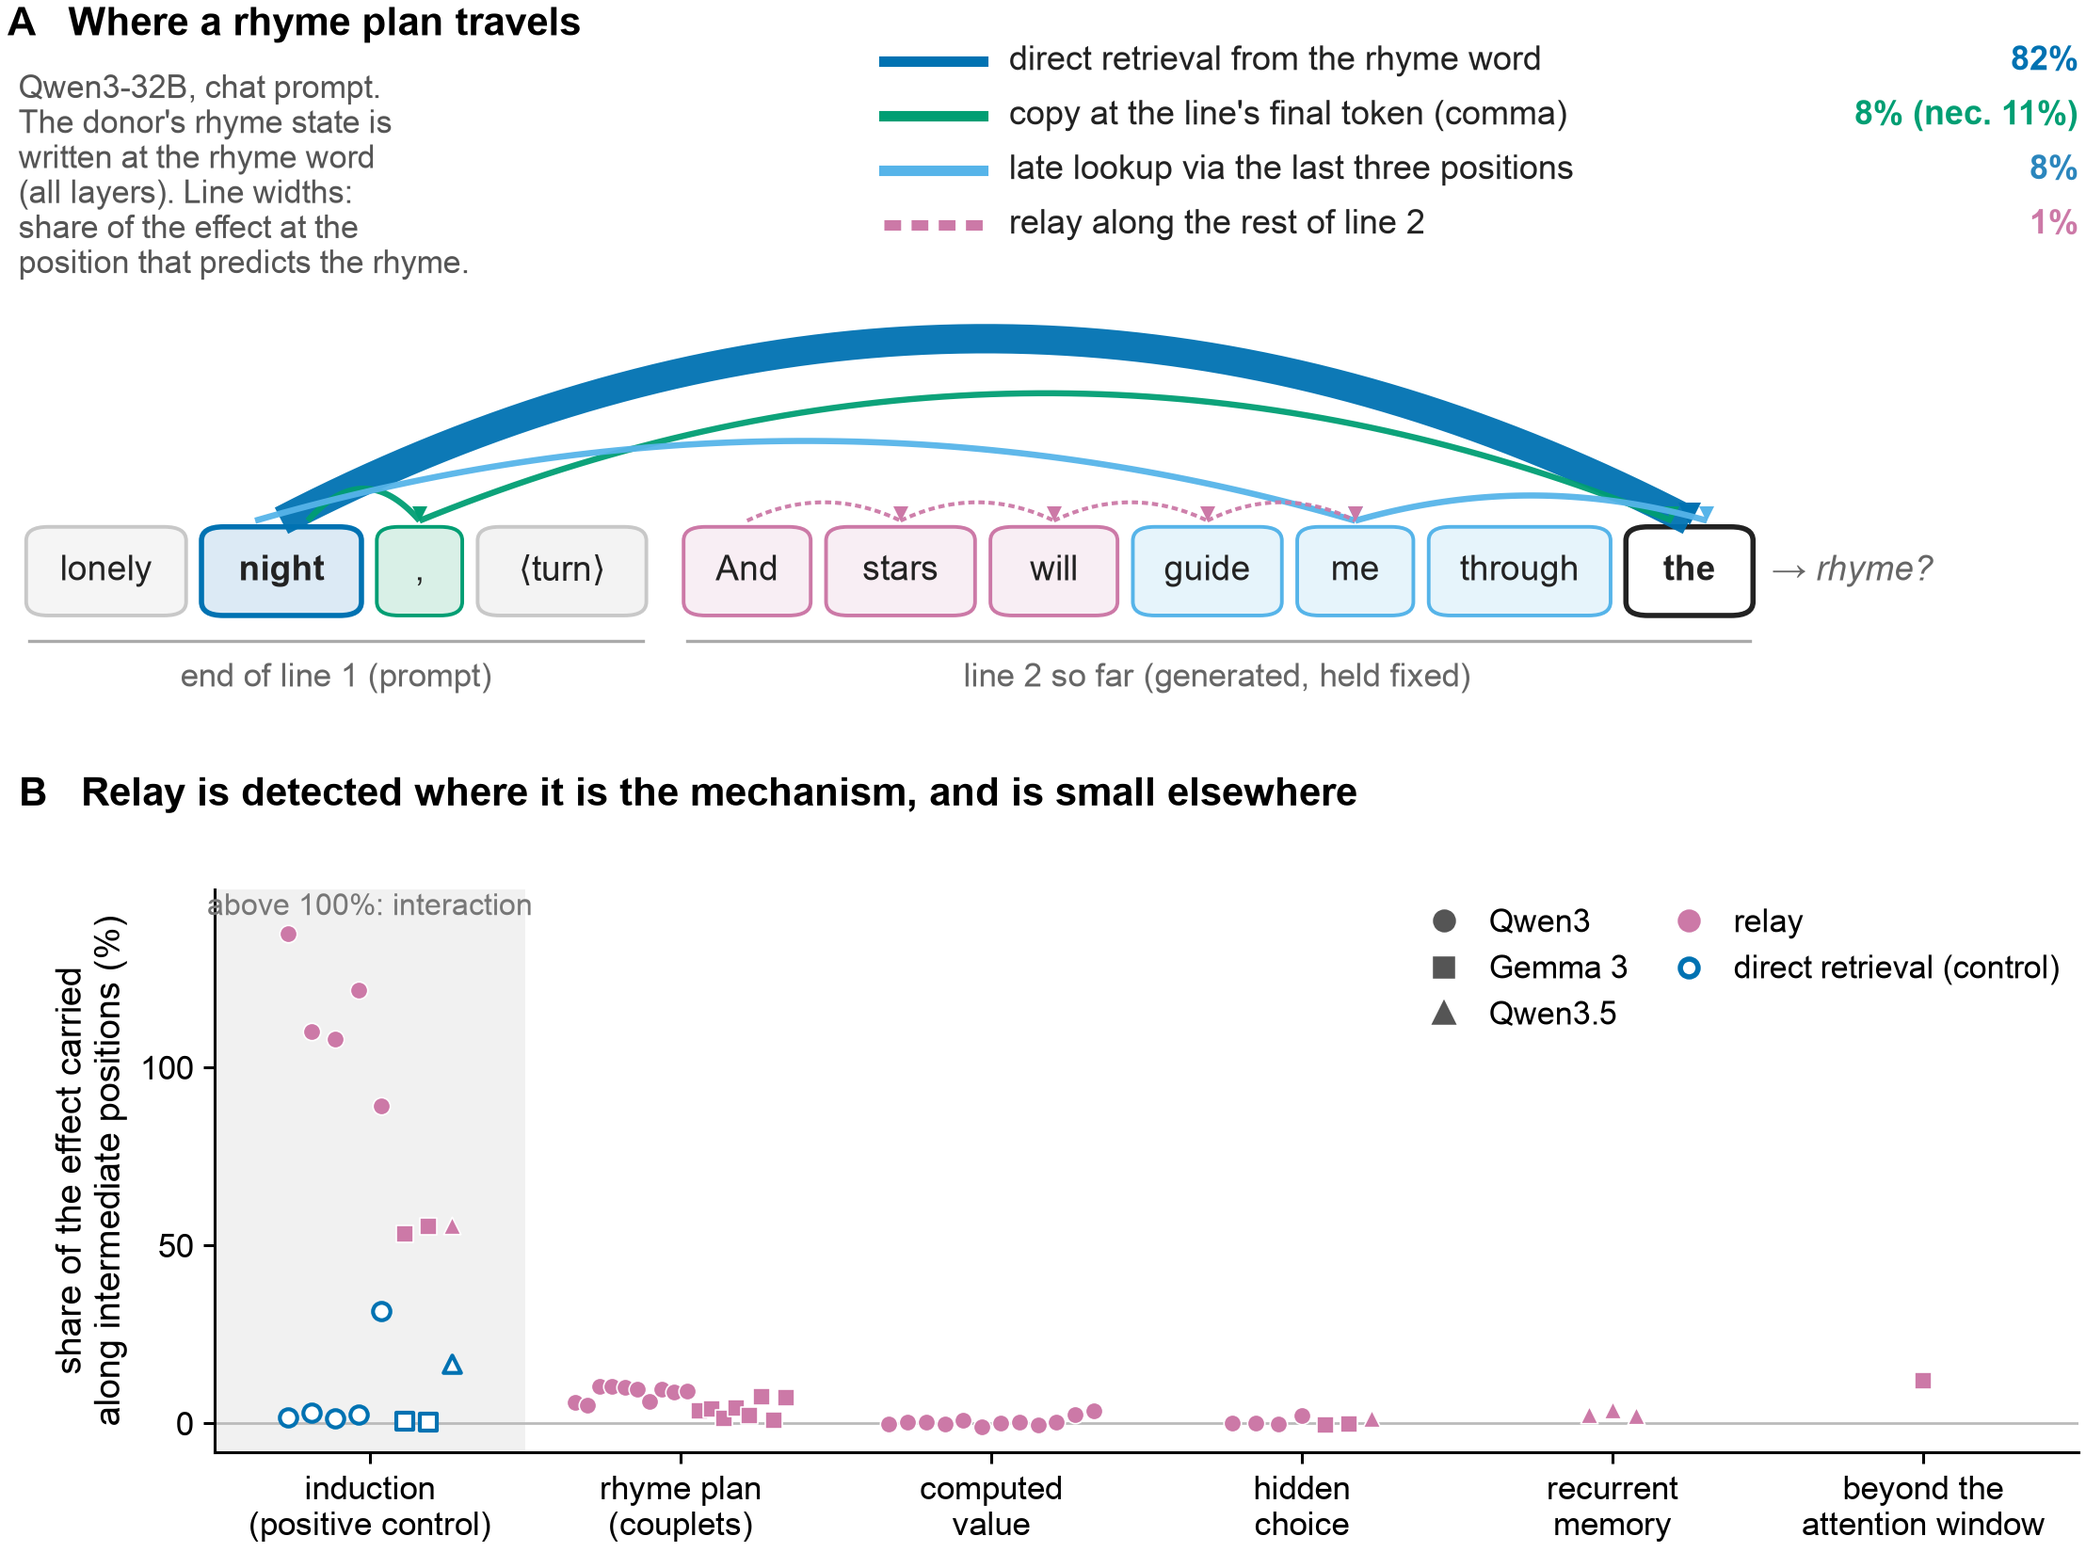
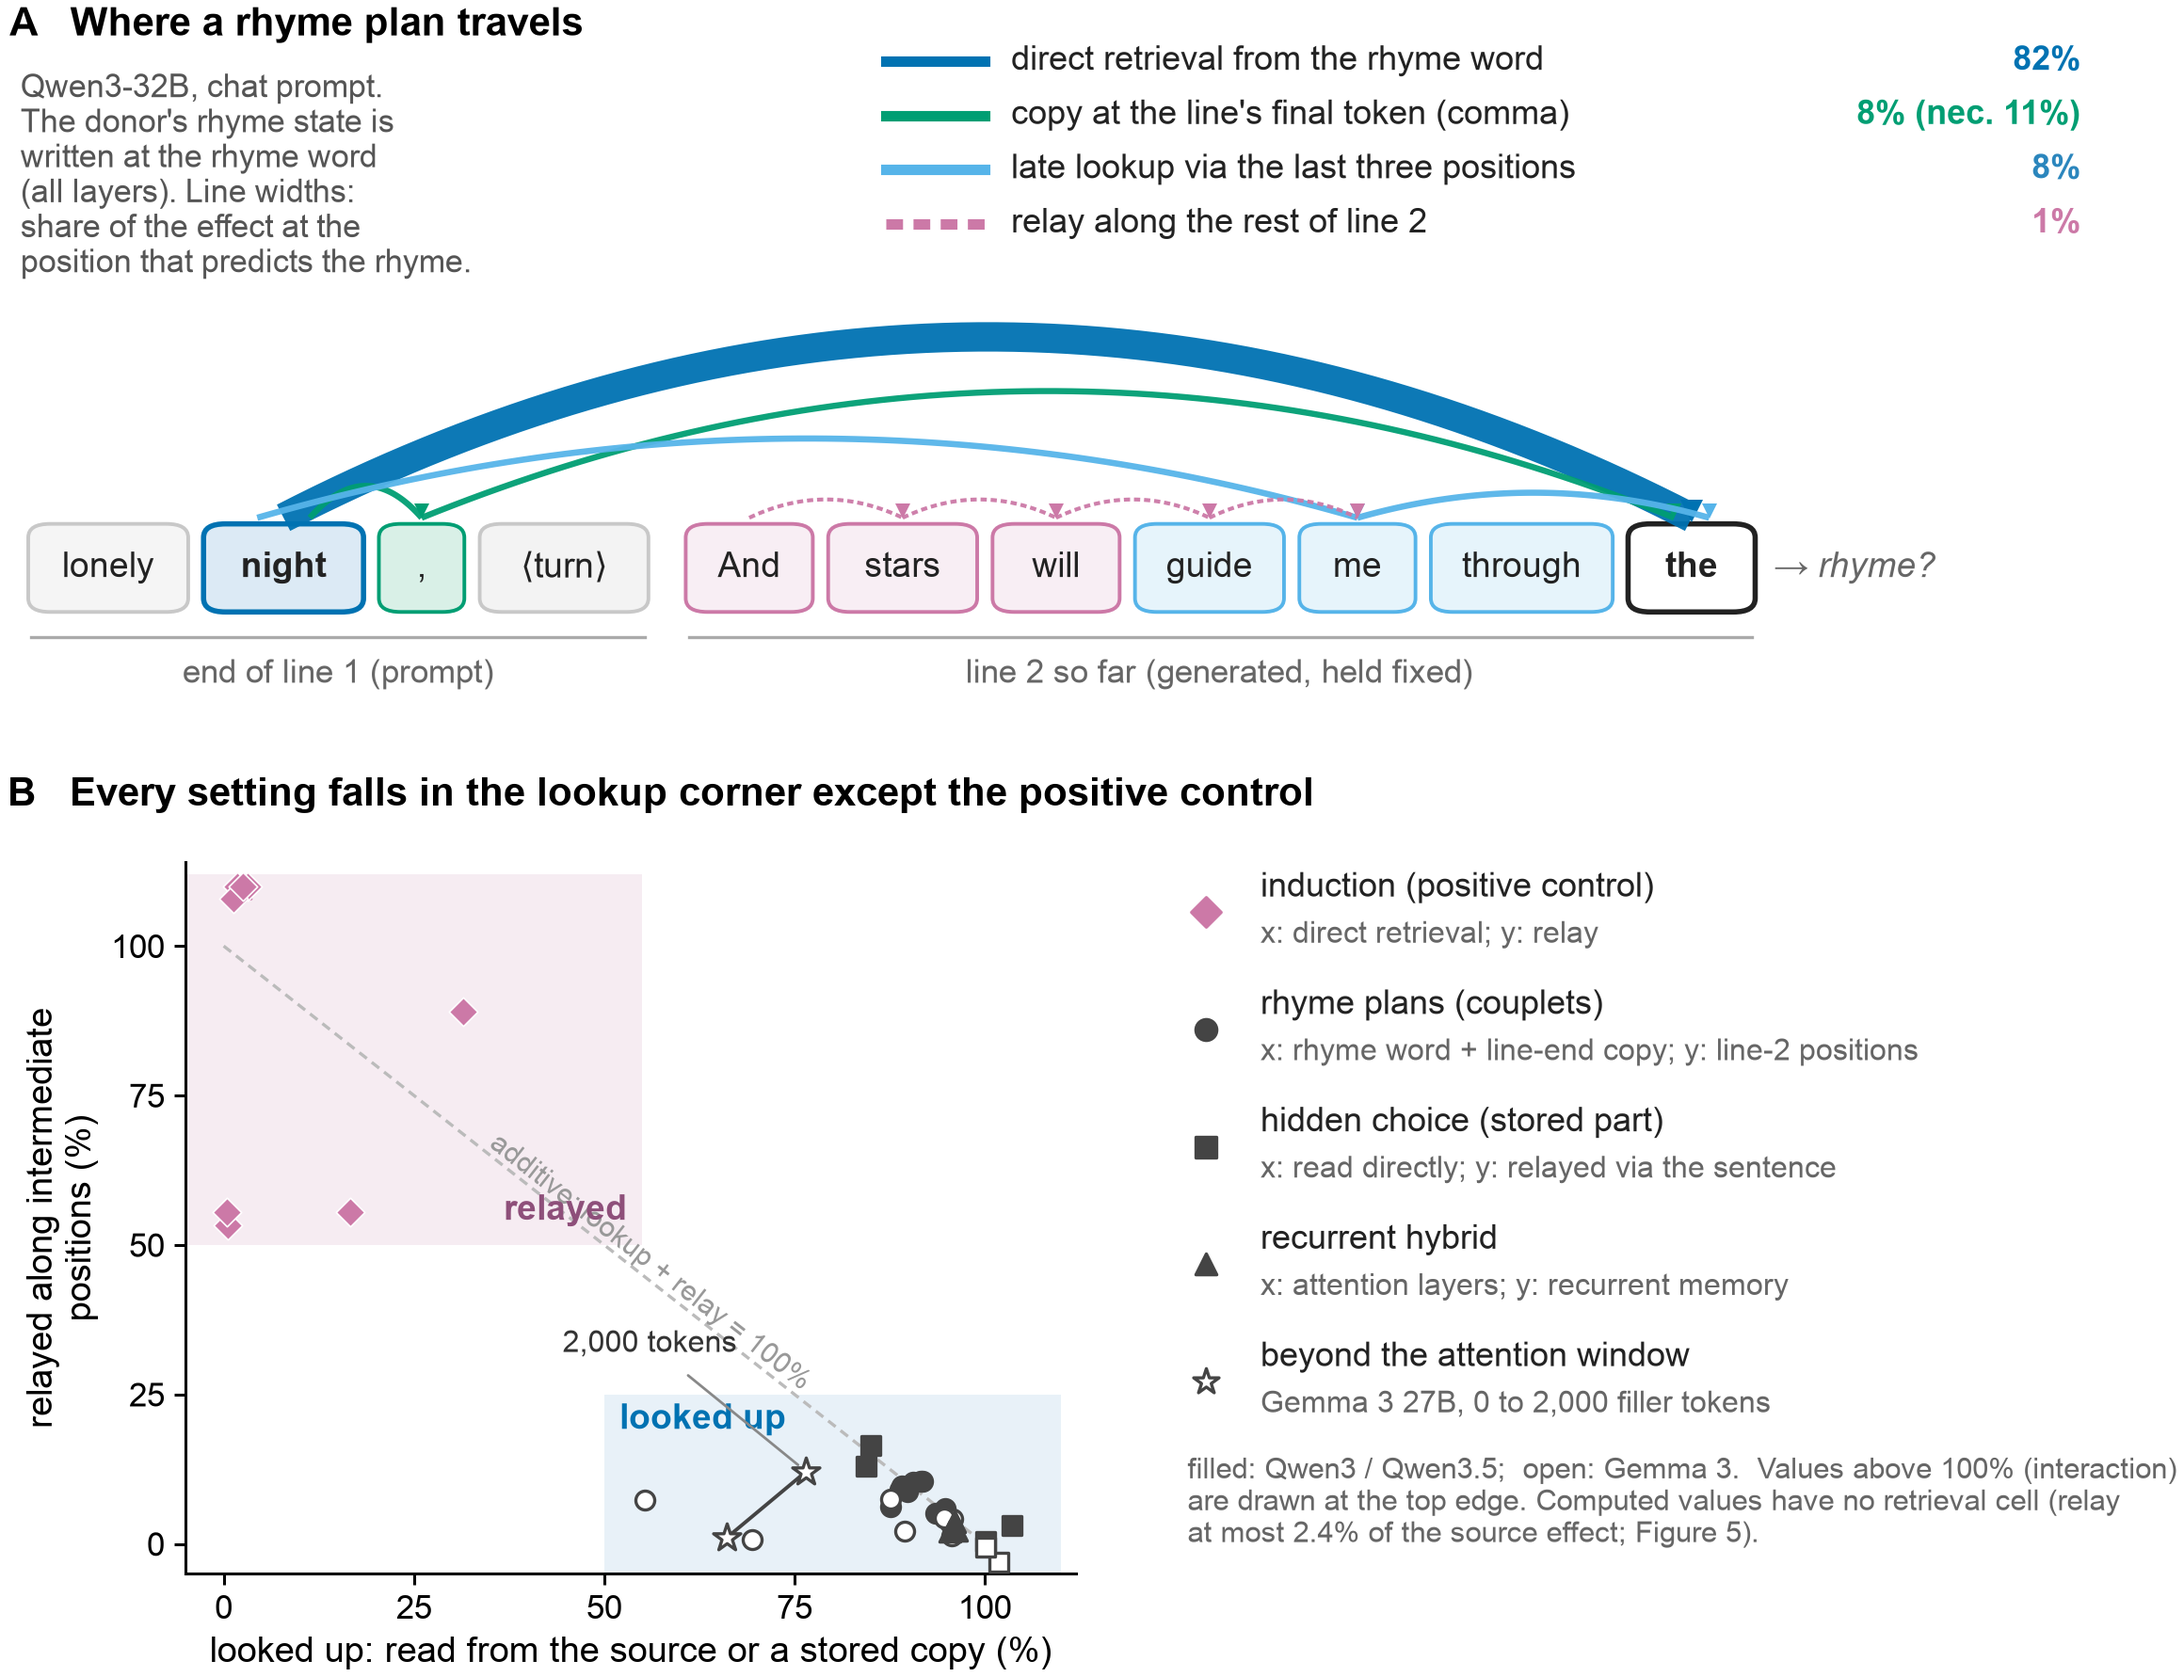
Abstract and introduction rewritten: paths defined before use, relay's monitoring relevance stated precisely, 'carry' reserved for relay; Figure 1B as a route plane; numbered PDF copy for every render (paper_N.pdf)

diff --git a/manuscript/figures/make_iclr_figures.py b/manuscript/figures/make_iclr_figures.py
@@ -90,9 +90,10 @@ def panel_label(ax, text, x=0.0, y=1.0):
 # --------------------------------------------------------------------------- Figure 1
 
 def fig1():
-    fig = plt.figure(figsize=(W, 4.15))
-    axA = fig.add_axes([0.0, 0.52, 1.0, 0.48])
-    axB = fig.add_axes([0.1, 0.075, 0.9, 0.36])
+    fig = plt.figure(figsize=(W, 4.5))
+    axA = fig.add_axes([0.0, 0.56, 1.0, 0.44])
+    axB = fig.add_axes([0.085, 0.075, 0.43, 0.42])
+    axK = fig.add_axes([0.56, 0.075, 0.44, 0.42])
 
     # A. Paths of the rhyme plan in one couplet, line widths from Qwen3-32B (chat prompt).
     s = couplet_shares("Qwen3-32B")
@@ -153,73 +154,97 @@ def fig1():
              fontsize=6.1, color="#555555", va="center")
     axA.text(-0.1, 4.45, "A   Where a rhyme plan travels", fontsize=7.5, weight="bold", va="top")
 
-    # B. Relay along intermediate positions, every setting, next to the induction positive control.
-    groups = [("induction\n(positive control)", []), ("rhyme plan\n(couplets)", []), ("computed\nvalue", []),
-              ("hidden\nchoice", []), ("recurrent\nmemory", []), ("beyond the\nattention window", [])]
-    ctrl_ret = []
+    # B. Route plane: share looked up (x) against share relayed (y), every setting and model.
+    pts = {k: [] for k in ("control", "couplets", "hidden", "recurrent", "distance")}
     for d, fam in [("Qwen3-1.7B", "Qwen3"), ("Qwen3-4B", "Qwen3"), ("Qwen3-8B", "Qwen3"), ("Qwen3-14B", "Qwen3"),
                    ("Qwen3-32B", "Qwen3"), ("gemma-3-12b-it", "Gemma 3"), ("gemma-3-27b-it", "Gemma 3"),
                    ("Qwen3.5-27B", "Qwen3.5"), ("Qwen3.5-35B-A3B", "Qwen3.5"), ("gemma-4-31b-it", "Gemma 4")]:
         x = load(PC / d / "induction_summary.json")
         if x:
-            groups[0][1].append((fam, ratio(x["relay"], x["persistence"])))
-            ctrl_ret.append((fam, ratio(x["retrieval"], x["persistence"])))
+            pts["control"].append((fam, ratio(x["retrieval"], x["persistence"]), ratio(x["relay"], x["persistence"])))
     for runs, fam in ((QWEN, "Qwen3"), (GEMMA, "Gemma 3")):
         for d, _ in runs:
             for r in (d, d + "-plain"):
                 c = couplet_shares(r)
                 if c:
-                    groups[1][1].append((fam, c["late"] + c["early"]))
-    for d in ("Qwen3-1.7B", "Qwen3-4B", "Qwen3-8B", "Qwen3-14B"):
-        x = load(DV / d / "chain_summary_block.json") or load(DV / d / "chain_summary.json")
-        if x:
-            for K in ("1", "3", "5"):
-                k = x["by_K"].get(K, {})
-                if "post_v0_block" in k:
-                    groups[2][1].append(("Qwen3", ratio(k["post_v0_block"], k["v0_edit"])))
+                    pts["couplets"].append((fam, c["retrieval"] + c["boundary"], c["late"] + c["early"]))
     for d, fam in [("Qwen3-4B", "Qwen3"), ("Qwen3-8B", "Qwen3"), ("Qwen3-14B", "Qwen3"), ("Qwen3-32B", "Qwen3"),
                    ("gemma-3-12b-it", "Gemma 3"), ("gemma-3-27b-it", "Gemma 3"), ("Qwen3.5-27B", "Qwen3.5"),
                    ("Qwen3.5-35B-A3B", "Qwen3.5"), ("gemma-4-31b-it", "Gemma 4")]:
         x = load(HC / d / "choice_summary.json")
-        if x:
-            groups[3][1].append((fam, ratio(x["post_relay"], x["text_swap"])))
+        if x and x["post_edit"]["lo"] > 0.1:  # shares of a stored part indistinguishable from zero are noise
+            pts["hidden"].append((fam, ratio(x["post_retrieval"], x["post_edit"]), ratio(x["post_relay"], x["post_edit"])))
     for d in ("Qwen3.5-4B", "Qwen3.5-9B", "Qwen3.5-27B", "Qwen3.5-35B-A3B"):
         x = load(RC / d / "pilot_summary.json") or load(RC / d / "pilot24_summary.json")
         if x:
-            groups[4][1].append(("Qwen3.5", ratio(x["recurrent_only"], x["persistence"])))
+            pts["recurrent"].append(("Qwen3.5", ratio(x["attention_only"], x["persistence"]),
+                                     ratio(x["recurrent_only"], x["persistence"])))
+    byd = {}
     for f in ("pilot_v2x_summary.json", "pilot_v2x_window_summary.json"):
         x = load(RD / "gemma-3-27b-it" / f)
         if x:
-            for D, v in x["by_distance"].items():
-                if int(D) >= 1500 and v.get("n"):
-                    groups[5][1].append(("Gemma 3", ratio(v["relay_line2"], v["persistence"])))
-    axB.axvspan(-0.5, 0.5, color="#F1F1F1", zorder=0, lw=0)
-    for gi, (_, pts) in enumerate(groups):
-        n = len(pts)
-        for j, (fam, v) in enumerate(pts):
-            dx = (j - (n - 1) / 2) * min(0.075, 0.72 / max(n, 1))
-            axB.scatter(gi + dx, 100 * min(v, 1.45), marker=MARK[fam], s=11, color=COL["relay"], zorder=3,
-                        edgecolor="white", linewidth=0.3)
-    for j, (fam, v) in enumerate(ctrl_ret):
-        dx = (j - (len(ctrl_ret) - 1) / 2) * 0.075
-        axB.scatter(dx, 100 * v, marker=MARK[fam], s=11, facecolor="white", edgecolor=COL["retrieval"], lw=0.75,
-                    zorder=3)
-    axB.axhline(0, color="#BBBBBB", lw=0.5, zorder=1)
-    axB.set_xticks(range(len(groups)))
-    axB.set_xticklabels([g for g, _ in groups], fontsize=6.3)
-    axB.set_xlim(-0.5, len(groups) - 0.5)
-    axB.set_ylim(-8, 150)
-    axB.set_yticks([0, 50, 100])
-    axB.set_ylabel("share of the effect carried\nalong intermediate positions (%)")
-    axB.text(0.0, 149, "above 100%: interaction", fontsize=5.8, ha="center", va="top", color="#777777")
-    fams = sorted({f for _, pts in groups for f, _ in pts} | {f for f, _ in ctrl_ret}, key=list(MARK).index)
-    hs = [plt.Line2D([], [], marker=MARK[f], ls="", color="#555555", ms=3.4, label=f) for f in fams]
-    hs += [plt.Line2D([], [], marker="o", ls="", color=COL["relay"], ms=3.4, label="relay"),
-           plt.Line2D([], [], marker="o", ls="", mfc="white", mec=COL["retrieval"], ms=3.4,
-                      label="direct retrieval (control)")]
-    axB.legend(handles=hs, loc="upper right", ncol=2, fontsize=6.1, columnspacing=0.9)
-    axB.text(-0.105, 1.2, "B   Relay is detected where it is the mechanism, and is small elsewhere",
-             transform=axB.transAxes, fontsize=7.5, weight="bold", va="top")
+            byd.update({int(k): v for k, v in x["by_distance"].items() if v.get("n")})
+    for D in sorted(byd):
+        v = byd[D]
+        pts["distance"].append((D, ratio(mean(v["retrieval"]) + mean(v["relay_boundary"]), v["persistence"]),
+                                ratio(v["relay_line2"], v["persistence"])))
+    ax = axB
+    ax.add_patch(Rectangle((0.5, -0.05), 0.6, 0.3, fc="#E8F1F8", ec="none", zorder=0))
+    ax.add_patch(Rectangle((-0.05, 0.5), 0.6, 0.62, fc="#F6ECF2", ec="none", zorder=0))
+    ax.plot([0, 1], [1, 0], color="#BBBBBB", lw=0.6, ls=(0, (3, 2)), zorder=1)
+    ax.text(0.56, 0.47, "additive: lookup + relay = 100%", rotation=-38, fontsize=5.4, color="#999999",
+            ha="center", va="center", rotation_mode="anchor")
+    ax.text(0.53, 0.53, "relayed", fontsize=6.6, color="#8E4F7A", weight="bold", ha="right", va="bottom")
+    ax.text(0.52, 0.235, "looked up", fontsize=6.6, color=COL["retrieval"], weight="bold", ha="left", va="top")
+    clip = lambda v: min(max(v, -0.03), 1.1)  # noqa: E731
+    for fam, xx, yy in pts["control"]:
+        ax.scatter(clip(xx), clip(yy), marker="D", s=15, color=COL["relay"], edgecolor="white", lw=0.3, zorder=4)
+        if yy > 1.1:
+            ax.annotate("", xy=(clip(xx), 1.115), xytext=(clip(xx), 1.07),
+                        arrowprops=dict(arrowstyle="-|>", color=COL["relay"], lw=0.5, mutation_scale=4))
+    style = {"couplets": ("o", 13), "hidden": ("s", 13), "recurrent": ("^", 16)}
+    for k, (mk, sz) in style.items():
+        for fam, xx, yy in pts[k]:
+            filled = fam in ("Qwen3", "Qwen3.5")
+            ax.scatter(clip(xx), clip(yy), marker=mk, s=sz, facecolor="#444444" if filled else "white",
+                       edgecolor="#444444", lw=0.6, zorder=3)
+    if pts["distance"]:
+        ds = pts["distance"]
+        ax.plot([clip(p[1]) for p in ds], [clip(p[2]) for p in ds], "-", color="#444444", lw=0.7, zorder=3)
+        ax.scatter([clip(p[1]) for p in ds], [clip(p[2]) for p in ds], marker="*", s=30, facecolor="white",
+                   edgecolor="#444444", lw=0.6, zorder=4)
+        last = ds[-1]
+        ax.annotate(f"{last[0]:,} tokens", xy=(clip(last[1]), clip(last[2])), xytext=(clip(last[1]) - 0.32,
+                    clip(last[2]) + 0.2), fontsize=5.8, color="#333333",
+                    arrowprops=dict(arrowstyle="-", color="#888888", lw=0.5))
+    ax.set_xlim(-0.05, 1.12)
+    ax.set_ylim(-0.05, 1.14)
+    ax.set_xticks([0, 0.25, 0.5, 0.75, 1.0])
+    ax.set_xticklabels(["0", "25", "50", "75", "100"])
+    ax.set_yticks([0, 0.25, 0.5, 0.75, 1.0])
+    ax.set_yticklabels(["0", "25", "50", "75", "100"])
+    ax.set_xlabel("looked up: read from the source or a stored copy (%)")
+    ax.set_ylabel("relayed along intermediate\npositions (%)")
+    ax.text(-0.2, 1.12, "B   Every setting falls in the lookup corner except the positive control",
+            transform=ax.transAxes, fontsize=7.5, weight="bold", va="top")
+    # Key: what each marker is, and what x and y measure in that setting.
+    axK.axis("off")
+    axK.set_xlim(0, 1)
+    axK.set_ylim(0, 1)
+    rows = [("D", COL["relay"], True, "induction (positive control)", "x: direct retrieval; y: relay"),
+            ("o", "#444444", True, "rhyme plans (couplets)", "x: rhyme word + line-end copy; y: line-2 positions"),
+            ("s", "#444444", True, "hidden choice (stored part)", "x: read directly; y: relayed via the sentence"),
+            ("^", "#444444", True, "recurrent hybrid", "x: attention layers; y: recurrent memory"),
+            ("*", "#444444", False, "beyond the attention window", "Gemma 3 27B, 0 to 2,000 filler tokens")]
+    for i, (mk, c, filled, name, desc) in enumerate(rows):
+        y = 0.93 - 0.165 * i
+        axK.scatter(0.04, y, marker=mk, s=26 if mk == "*" else 16, facecolor=c if filled else "white", edgecolor=c,
+                    lw=0.6)
+        axK.text(0.1, y + 0.012, name, fontsize=6.4, va="bottom", color=COL["ink"])
+        axK.text(0.1, y - 0.012, desc, fontsize=5.8, va="top", color="#666666")
+    axK.text(0.02, 0.1, "filled: Qwen3 / Qwen3.5;  open: Gemma 3.  Values above 100% (interaction)\n"
+             "are drawn at the top edge. Computed values have no retrieval cell (relay\n"
+             "at most 2.4% of the source effect; Figure 5).", fontsize=5.6, color="#666666", va="center")
     save(fig, "iclr_fig1_overview.png")
 
 

diff --git a/skills/iclr-manuscript/SKILL.md b/skills/iclr-manuscript/SKILL.md
@@ -10,7 +10,7 @@ compatibility: >-
   Repo-local Quarto 1.9 and latexmk via bin/render-paper; /Users/anthony/miniconda3/bin/python
   with matplotlib for figures; poppler (pdfinfo, pdftotext, pdftoppm) for checks.
 metadata:
-  version: "1.0"
+  version: "1.1"
   updated: "2026-09-26"
 ---
 
@@ -64,6 +64,17 @@ The live source is the ICLR 2027 extension; the NeurIPS workshop version (v35) i
   Cross-references (`@tbl-name`) keep working. Inside raw LaTeX use `$...$`, `\%` and
   `\textbf{}`.
 
+## Wording rules learned from review
+
+- Define every path term before using it, and keep one meaning per word: "relay" (carrying
+  forward through intermediate positions) is the only sense of "carry"; for shares write
+  "accounts for X%", never "carries X%".
+- State why relay matters in terms of what a monitor can see: emitted content is in the
+  text, retrieved content sits at a fixed position of the context, relayed content travels
+  through the model's own output without appearing in it. Do not claim that only relay
+  "keeps content in the model's state" (retrieval does too).
+- Do not use "private" (retired in the glossary); say hidden or secret.
+
 ## YAML pitfalls
 
 - A `header-includes` entry containing `: ` (for example `[Pending: #1]`) parses as a
@@ -72,7 +83,10 @@ The live source is the ICLR 2027 extension; the NeurIPS workshop version (v35) i
 
 ## Render and check
 
-1. `bin/render-paper iclr submission` (outputs in `dist/iclr-submission/`).
+1. `bin/render-paper iclr submission` (outputs in `dist/iclr-submission/`). Every render
+   also writes a numbered copy, `paper_<N>.pdf` (N = highest existing number + 1; the user's
+   rule, 2026-09-26: numbered versions are easier to distribute). Never overwrite or delete an
+   earlier number; quote the number when sending a render to the user.
 2. Pages: `pdfinfo dist/iclr-submission/paper.pdf`; find where the main text ends (the
    AI use statement follows the discussion) with `pdftotext -f N -l N`. ICLR allows 9 pages
    of main text at submission; report the count, do not cut text to fit (`AGENTS.md`).

diff --git a/docs/publishing.md b/docs/publishing.md
@@ -30,6 +30,8 @@ for reference and for rebuilding the tagged workshop version.
 
 Each build writes a PDF, generated `.tex`, and `build-manifest.json` under
 `dist/<target>-<mode>/`.
+Every build also writes a numbered copy of the PDF, `paper_<N>.pdf`, for
+distribution (the manifest records it as `numbered_pdf`).
 
 ## Local Tools
 
